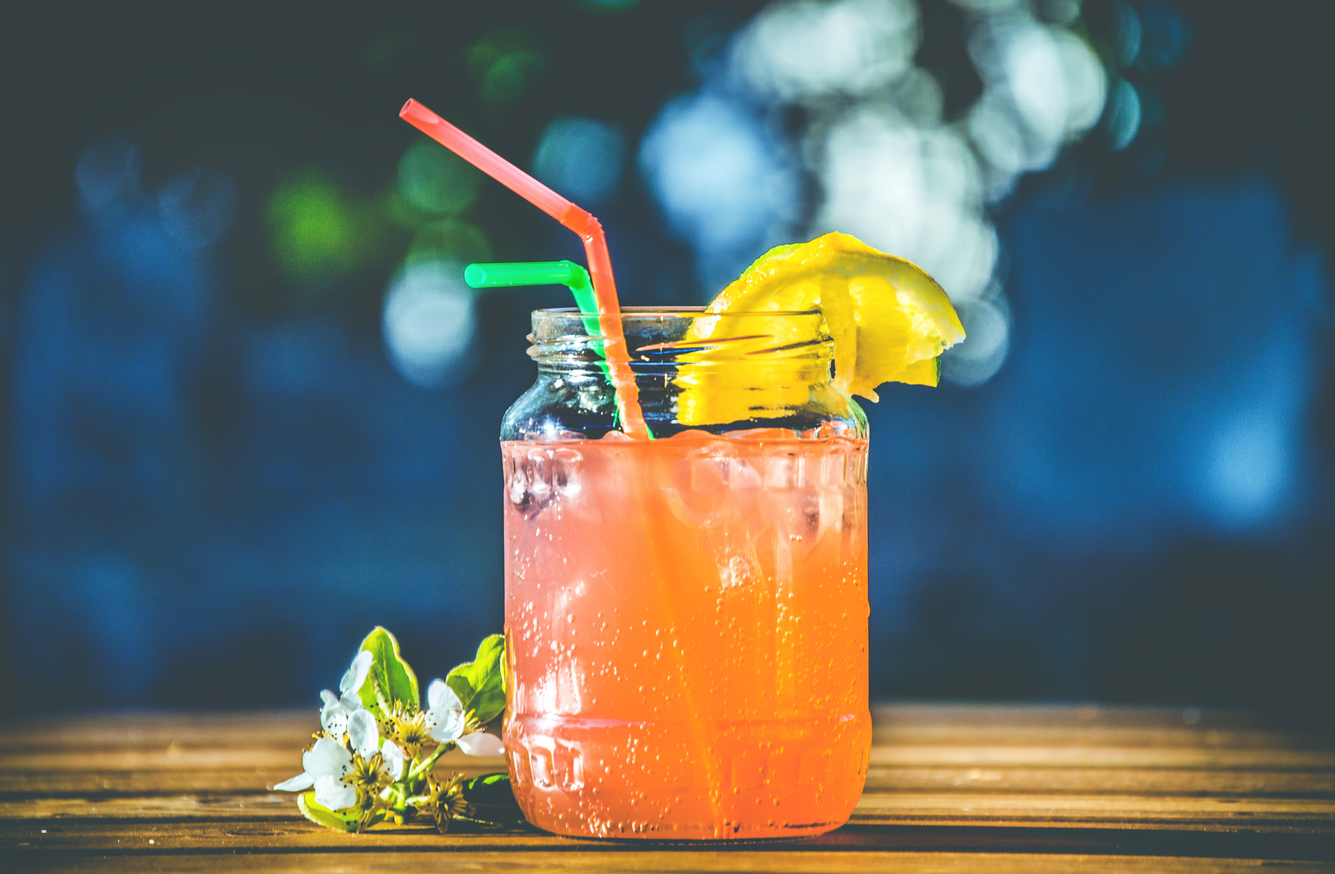
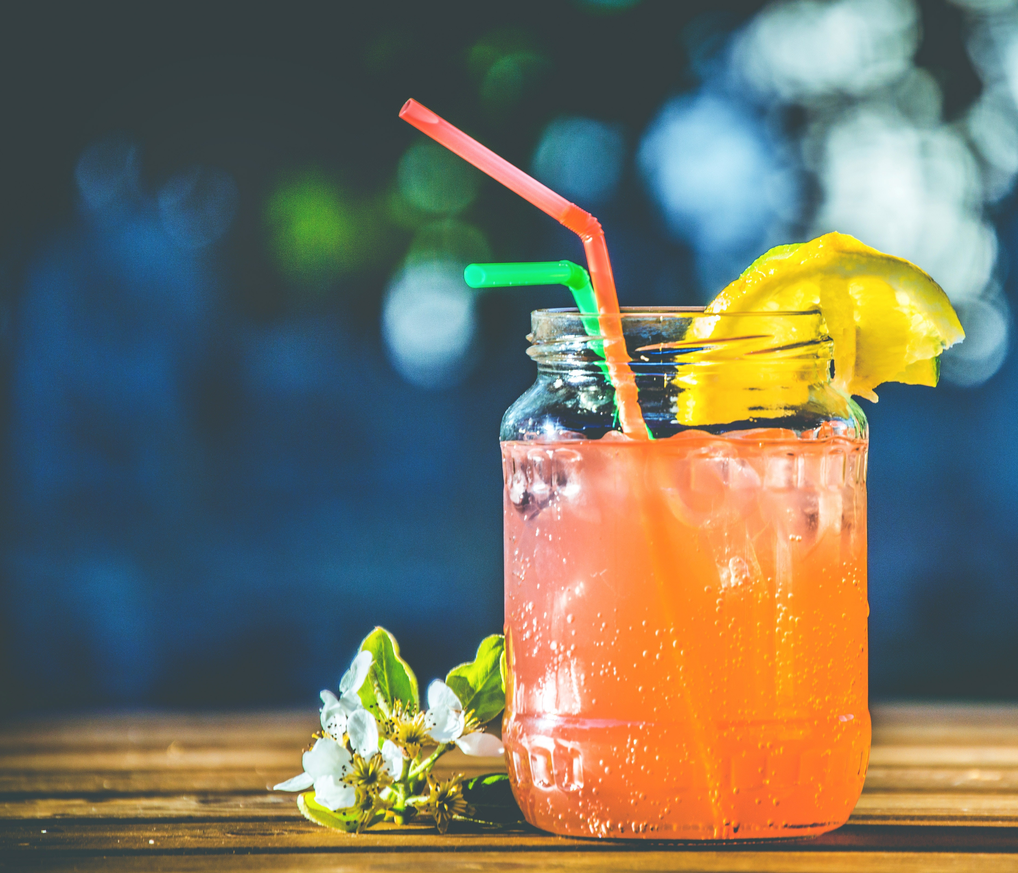
improve Breadcrumb

diff --git a/src/Components.css b/src/Components.css
@@ -78,7 +78,7 @@ input {
 #breadcrumb {
         background-image: url('/img/main.jpg');
         background-origin: border-box;
-        background-position: 0% 75%;
+        background-position: 0% 70%;
         background-repeat: no-repeat;
         background-size: 100%;
         box-sizing: border-box;
@@ -296,7 +296,7 @@ input {
                 height: 30vh;
         }
         .bc-title {
-                font-size: 1.3em;
+                font-size: 1.6em;
                 width: 45%;
         }
 
